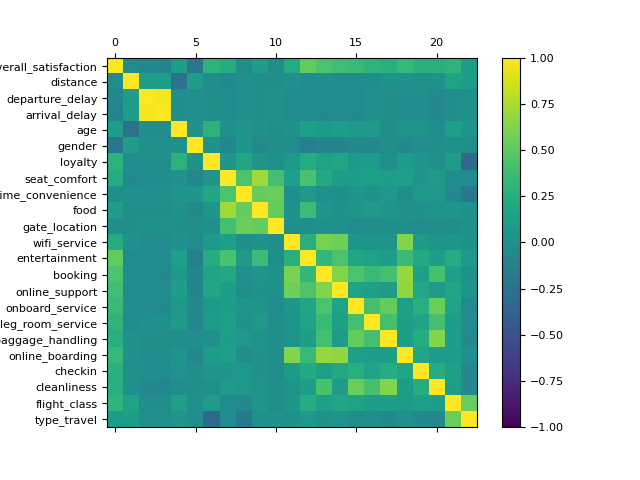
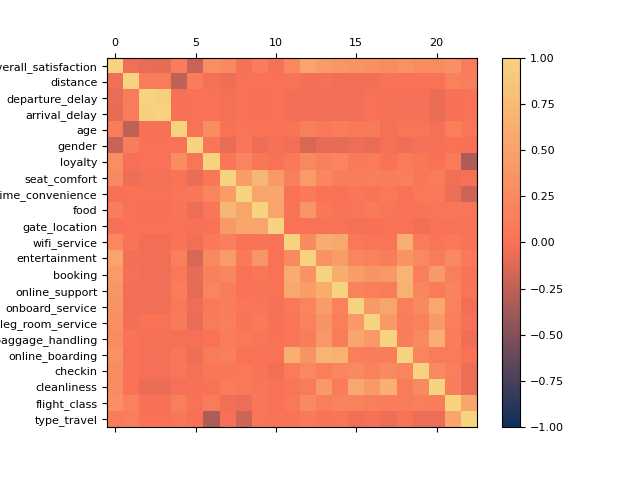
corzinhas

diff --git a/ML/ml.py b/ML/ml.py
@@ -163,7 +163,7 @@ def visualize_data(df, img_path):
 
     ## Overall satisfaction Counts
     plt.figure(figsize=(10,5))
-    ax = sns.countplot(x="overall_satisfaction", data=df)
+    ax = sns.countplot(x="overall_satisfaction", data=df, palette=['#fa7256','#f89649'])
     for p in ax.patches:
         ax.annotate(f'\n{p.get_height()}', (p.get_x()+0.2, p.get_height()), ha='center', va='top', color='white', size=18)
     
@@ -176,7 +176,9 @@ def visualize_data(df, img_path):
     # heatmap of correlations
     fig = plt.figure()
     ax = fig.add_subplot(111)
-    cax = ax.matshow(correlations, vmin=-1, vmax=1)
+    
+    cmap = create_colormap('0b2f5b','fa7256','f7d380')
+    cax = ax.matshow(correlations, vmin=-1, vmax=1,  cmap=cmap)
     fig.colorbar(cax)
     ticks = np.arange(0,len(df.columns),1)
     #ax.set_xticks(ticks)
@@ -445,13 +447,24 @@ def visualize_classification(data_path):
     plt.savefig(data_path+"\whole_time.png")
     plt.close()
 
-def create_colormap(hex1,hex2):
+def create_colormap(hex1,hex2, hex3 = None):
     r1,g1,b1 = (int(hex1[i:i+2], 16)/255 for i in (0,2,4))
     r2,g2,b2 = (int(hex2[i:i+2], 16)/255 for i in (0,2,4))
 
     myColors=[]
-    for i in range(1000):
-        myColors.append((r1+(r2-r1)*(i+1)/1000, g1+(g2-g1)*(i+1)/1000, b1+(b2-b1)*(i+1)/1000, 1.0))
+
+    if hex3 is not None:
+        r3,g3,b3 = (int(hex3[i:i+2], 16)/255 for i in (0,2,4))
+        
+        for i in range(500):
+            myColors.append((r1+(r2-r1)*(i+1)/500, g1+(g2-g1)*(i+1)/500, b1+(b2-b1)*(i+1)/500, 1.0))
+            
+        for i in range(500):
+            myColors.append((r2+(r3-r2)*(i+1)/500, g2+(g3-g2)*(i+1)/500, b2+(b3-b2)*(i+1)/500, 1.0))
+
+    else:
+        for i in range(1000):
+            myColors.append((r1+(r2-r1)*(i+1)/1000, g1+(g2-g1)*(i+1)/1000, b1+(b2-b1)*(i+1)/1000, 1.0))
 
     return LinearSegmentedColormap.from_list('Custom', myColors, len(myColors))
 
@@ -537,8 +550,6 @@ def train_best_model(best_path):
     # pickle the model
     pickle.dump(model, open(best_path+"/best_model.pkl", "wb"))
 
-
-
     
 def main():
 
@@ -549,6 +560,8 @@ def main():
     #print(data.shape)
 
     visualize_data(data,IMG_PATH)
+
+    return
 
     y=data['overall_satisfaction']
     X=data.drop(['overall_satisfaction'], axis=1)
@@ -574,7 +587,7 @@ if __name__ == "__main__":
     BEST_PATH = "ML/best"
     SEED = 123456789
 
-    #main()
-    visualize_classification(DATA_PATH)
+    main()
+    #visualize_classification(DATA_PATH)
     #train_best_model(BEST_PATH)
     
